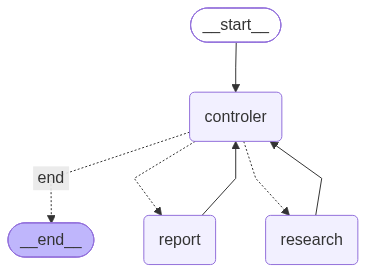
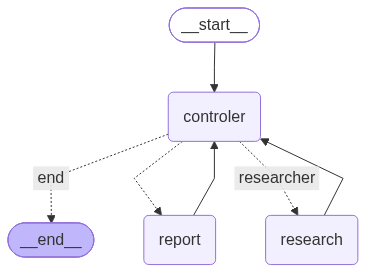
feat: add research node and integrate into workflow

diff --git a/agents/supervisor.py b/agents/supervisor.py
@@ -6,7 +6,7 @@ from services.llm import llm
 
 SUPERVISOR_SYSTEM_PROMPT = """You are the routing supervisor for a company intelligence assistant.
 Based on the conversation, decide which specialist should handle the latest request.
-
+ 
 Routes:
 - rag: internal company documents, policies, procedures. DEFAULT for organizational questions.
 - research: external/public information. Only use if the user explicitly asks to research,
@@ -16,15 +16,21 @@ Routes:
 - convo: you can answer directly, no specialist needed (definitions, small talk, clarifying your own prior answer).
 - clarification: the request could genuinely map to more than one route and cannot be
   disambiguated from the message alone.
-
+- end: the most recent message already fully answers the user's request and nothing
+  further needs to happen. Use this whenever the last message in the conversation is
+  an assistant response (from convo or a specialist) that already satisfies what the
+  user asked for. Do not route back to convo or any specialist a second time for the
+  same completed request, that just repeats the same answer.
+ 
 If the last specialist result has status "partial" or "failed", factor that in:
 - if the topic was organizational and RAG found nothing, respond via clarification or convo
   explaining no data exists. Do not fall through to research.
 - if the topic was non-organizational and nothing was found, research may be appropriate.
-
+ 
 For convo, also produce a short pre-summary of relevant conversation context in current_task,
 not a raw instruction, since convo will not see the full message history.
 For all other routes, current_task should be a concise actionable task description.
+For end, current_task can be a short, empty-ish placeholder, it will not be used.
 """
 
 
@@ -48,6 +54,8 @@ def supervisor_agent(state: SupervisorState) -> dict:
         # than silently defaulting to clarification
         raise RuntimeError(f"Supervisor LLM call failed: {e}") from e
 
+    print(f"[SUPERVISOR] decision.next={decision.next!r} current_task={decision.current_task!r}")
+
     return map_to_state(decision)
 
 
@@ -59,6 +67,7 @@ def gather_context(state: SupervisorState) -> dict:
     the Supervisor gets full history, but we're explicit about
     what's passed forward so build_prompt isn't reaching into state itself.
     """
+    print(f"[GATHER_CONTEXT] {len(state.messages)} messages, last_result={state.last_result!r}")
     return {
         "messages": state.messages,
         "last_result": state.last_result,  # None if this is the first turn

diff --git a/agents/research/research_node.py b/agents/research/research_node.py
@@ -1,0 +1,32 @@
+from state.state import SupervisorState, SubGraphSupervisorState, SpecialistResult
+
+
+def research_node(state: SupervisorState) -> dict:
+    """
+    Boundary wrapper for the Research subgraph.
+    """
+    if state.current_task is None:
+        raise RuntimeError(
+            "Convo node reached with current_task=None. The Supervisor "
+            "should always set current_task before routing here."
+        )
+
+    sub_input = SubGraphSupervisorState(
+        messages=[],
+        task=state.current_task,
+    )
+
+    sub_output = _research_subgraph.invoke(sub_input)
+
+    result = SpecialistResult(
+        source="research",
+        summary=sub_output["messages"][-1].content,
+        status="done",
+    )
+
+    return {"last_result": result}
+
+
+def set_research_subgraph(subgraph):
+    global _research_subgraph
+    _research_subgraph = subgraph

diff --git a/graph/workflow.py b/graph/workflow.py
@@ -14,20 +14,24 @@ from agents.supervisor import supervisor_agent
 from agents.sql_agent import Sql_agent
 from agents.visualization_agent import Visualization
 from agents.clarification import Clarification
+from agents.research.research_node import research_node, set_research_subgraph
 
 
 def Main_WorkFlow():
+
+    subgraph = sub_workflow()
+    set_research_subgraph(subgraph)
+    
     builder = StateGraph(SupervisorState)
 
     subgraph = sub_workflow()
-
     
     builder.add_node("supervisor", supervisor_agent)
     builder.add_node("rag", RAG)
     builder.add_node("convo", Convo)
     builder.add_node("sql", Sql_agent)
     builder.add_node("visu", Visualization)
-    builder.add_node("research", subgraph)
+    builder.add_node("research", research_node)
     builder.add_node("clarification", Clarification)
 
     

diff --git a/agents/conversation_agent.py b/agents/conversation_agent.py
@@ -1,4 +1,4 @@
-from langchain_core.messages import AIMessage, SystemMessage, HumanMessage
+from langchain_core.messages import SystemMessage, HumanMessage
 from state.state import SupervisorState
 from services.llm import llm
  
@@ -19,7 +19,7 @@ def Convo(state: SupervisorState) -> dict:
             "Convo node reached with current_task=None. The Supervisor "
             "should always set current_task before routing here."
         )
-    
+    print(f"[CONVO] current_task={state.current_task!r}")
     model = llm()
 
     msg = [SystemMessage(content=CONVO_SYSTEM_PROMPT)] + [HumanMessage(content=state.current_task)]
